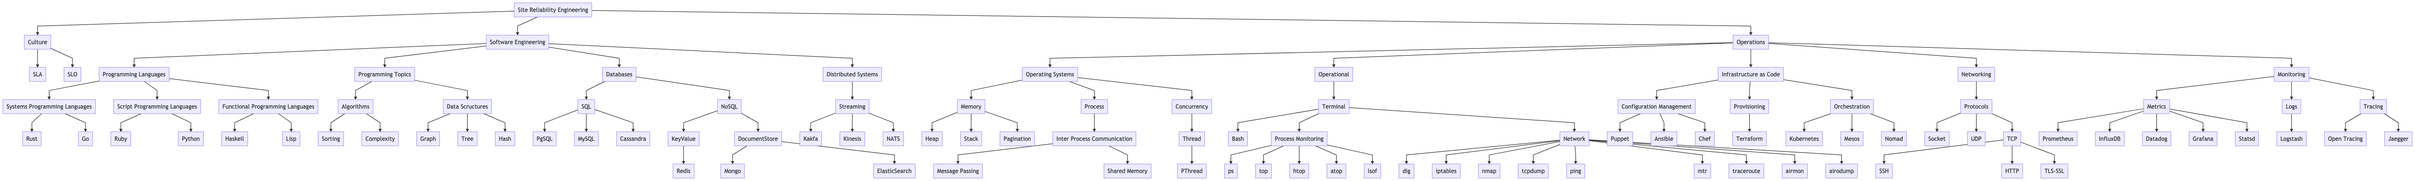
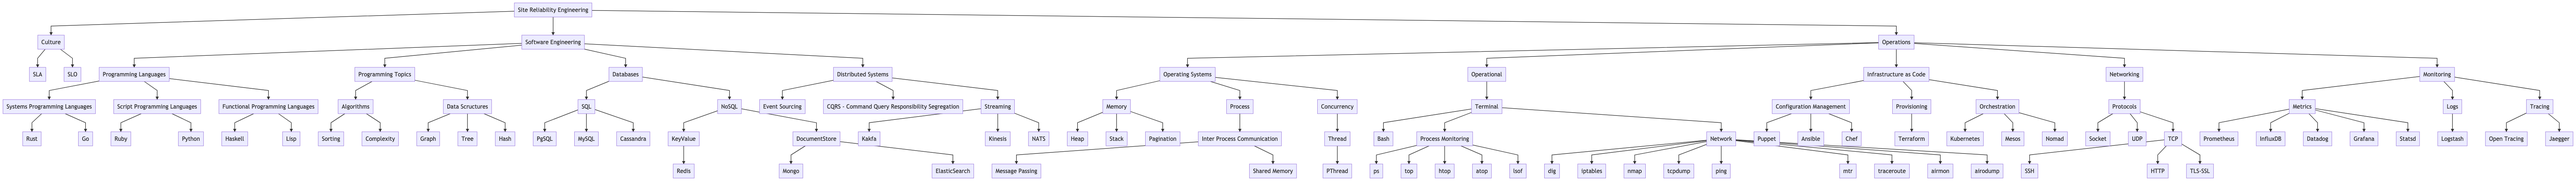
Add event sourcing to distributed systems section

diff --git a/README.md b/README.md
@@ -115,27 +115,36 @@ At the moment this is not useful for anyone but myself, if at some point I find 
           * [BoJack](https://github.com/marceloboeira/bojack) ✍🏼 💻 🆓
           * [Why you should build your own NoSQL database](https://medium.com/@marceloboeira/why-you-should-build-your-own-nosql-database-9bbba42039f5) ✍🏼 📰 🆓
     * Distributed Systems
+      * Event Sourcing / CQRS
+        * [Go Back to the Future with Event Sourcing and CQRS](https://www.youtube.com/watch?v=iGt0DBOWDTs) 📼 🆓 
+        * [Event Sourcing You are doing it wrong - David Schmitz](https://www.youtube.com/watch?v=GzrZworHpIk) 📼 🆓 
+        * [The Many Meanings of Event-Driven Architecture - Martin Fowler](https://www.youtube.com/watch?v=STKCRSUsyP0) 📼 🆓 
+        * [An Introduction to CQRS and Event Sourcing Patterns - Mathew McLoughlin](https://www.youtube.com/watch?v=9a1PqwFrMP0) 📼 🆓 
+        * [Go Back to the Future with Event Sourcing and CQRS](https://www.youtube.com/watch?v=iGt0DBOWDTs) 📼 🆓
       * Streaming
         * [Kafka](https://kafka.apache.org)
           * [Introduction to Kafka](https://www.youtube.com/watch?v=UEg40Te8pnE) 📼 🆓
+          * [Commit Logs in an Age of Microservices - Tim Berglund](https://www.youtube.com/watch?v=bbotWkCLuF0) 📼 🆓
           * Internals
             * [The Log: What every software engineer should know about real-time data's unifying abstraction](https://engineering.linkedin.com/distributed-systems/log-what-every-software-engineer-should-know-about-real-time-datas-unifying) 📰 🆓
             * [How Kafka's Storage Internals Work](https://thehoard.blog/how-kafkas-storage-internals-work-3a29b02e026) 📰 🆓
         * Kinesis
           * ["Distributed Commit Log: Application Techniques for Transaction Processing" by David McNeil](https://www.youtube.com/watch?v=X2g0FFOV2e0) 📼 🆓
-        * Build your Own
-          * [Corfu - A distributed shared log](https://blog.acolyer.org/2017/05/02/corfu-a-distributed-shared-log/) 📰 🆓
-          * [Building a Distributed Message Log from Scratch by Tyler Treat - Video](https://www.youtube.com/watch?v=oKbm9XFxB2k) 📼 🆓
-          * [Building a Distributed Log from Scratch, Part 1: Storage Mechanics](https://bravenewgeek.com/building-a-distributed-log-from-scratch-part-1-storage-mechanics/) 📰 🆓
-          * [Building a Distributed Log from Scratch, Part 2: Data Replication](https://bravenewgeek.com/building-a-distributed-log-from-scratch-part-2-data-replication) 📰 🆓
-          * [Building a Distributed Log from Scratch, Part 3: Scaling Message Delivery](https://bravenewgeek.com/building-a-distributed-log-from-scratch-part-3-scaling-message-delivery/) 📰 🆓
-          * [Building a Distributed Log from Scratch, Part 4: Trade-Offs and Lessons Learned](https://bravenewgeek.com/building-a-distributed-log-from-scratch-part-4-trade-offs-and-lessons-learned/) 📰 🆓
-          * [Building a Distributed Log from Scratch, Part 5: Sketching a New System](https://bravenewgeek.com/building-a-distributed-log-from-scratch-part-5-sketching-a-new-system/) 📰 🆓
-          * Code
-            * [travisjeffery/Jocko](https://github.com/travisjeffery/jocko) - Distributed commit log service in Go
-            * [zowens/commitlog](http://github.com/zowens/commitlog) - Append-only commit log library for Rust
-          * People to Follow
-            * [Tyler Treat](https://twitter.com/tyler_treat?lang=en) 🐦
+        * Commit Log
+          * [Commit Logs in an Age of Microservices - Tim Berglund](https://www.youtube.com/watch?v=bbotWkCLuF0) 📼 🆓
+          * Build your Own
+            * [Corfu - A distributed shared log](https://blog.acolyer.org/2017/05/02/corfu-a-distributed-shared-log/) 📰 🆓
+            * [Building a Distributed Message Log from Scratch by Tyler Treat - Video](https://www.youtube.com/watch?v=oKbm9XFxB2k) 📼 🆓
+            * [Building a Distributed Log from Scratch, Part 1: Storage Mechanics](https://bravenewgeek.com/building-a-distributed-log-from-scratch-part-1-storage-mechanics/) 📰 🆓
+            * [Building a Distributed Log from Scratch, Part 2: Data Replication](https://bravenewgeek.com/building-a-distributed-log-from-scratch-part-2-data-replication) 📰 🆓
+            * [Building a Distributed Log from Scratch, Part 3: Scaling Message Delivery](https://bravenewgeek.com/building-a-distributed-log-from-scratch-part-3-scaling-message-delivery/) 📰 🆓
+            * [Building a Distributed Log from Scratch, Part 4: Trade-Offs and Lessons Learned](https://bravenewgeek.com/building-a-distributed-log-from-scratch-part-4-trade-offs-and-lessons-learned/) 📰 🆓
+            * [Building a Distributed Log from Scratch, Part 5: Sketching a New System](https://bravenewgeek.com/building-a-distributed-log-from-scratch-part-5-sketching-a-new-system/) 📰 🆓
+            * Code
+              * [travisjeffery/Jocko](https://github.com/travisjeffery/jocko) - Distributed commit log service in Go
+              * [zowens/commitlog](http://github.com/zowens/commitlog) - Append-only commit log library for Rust
+            * People to Follow
+              * [Tyler Treat](https://twitter.com/tyler_treat?lang=en) 🐦
   * Operations
     * Operating Systems
       * Courses
